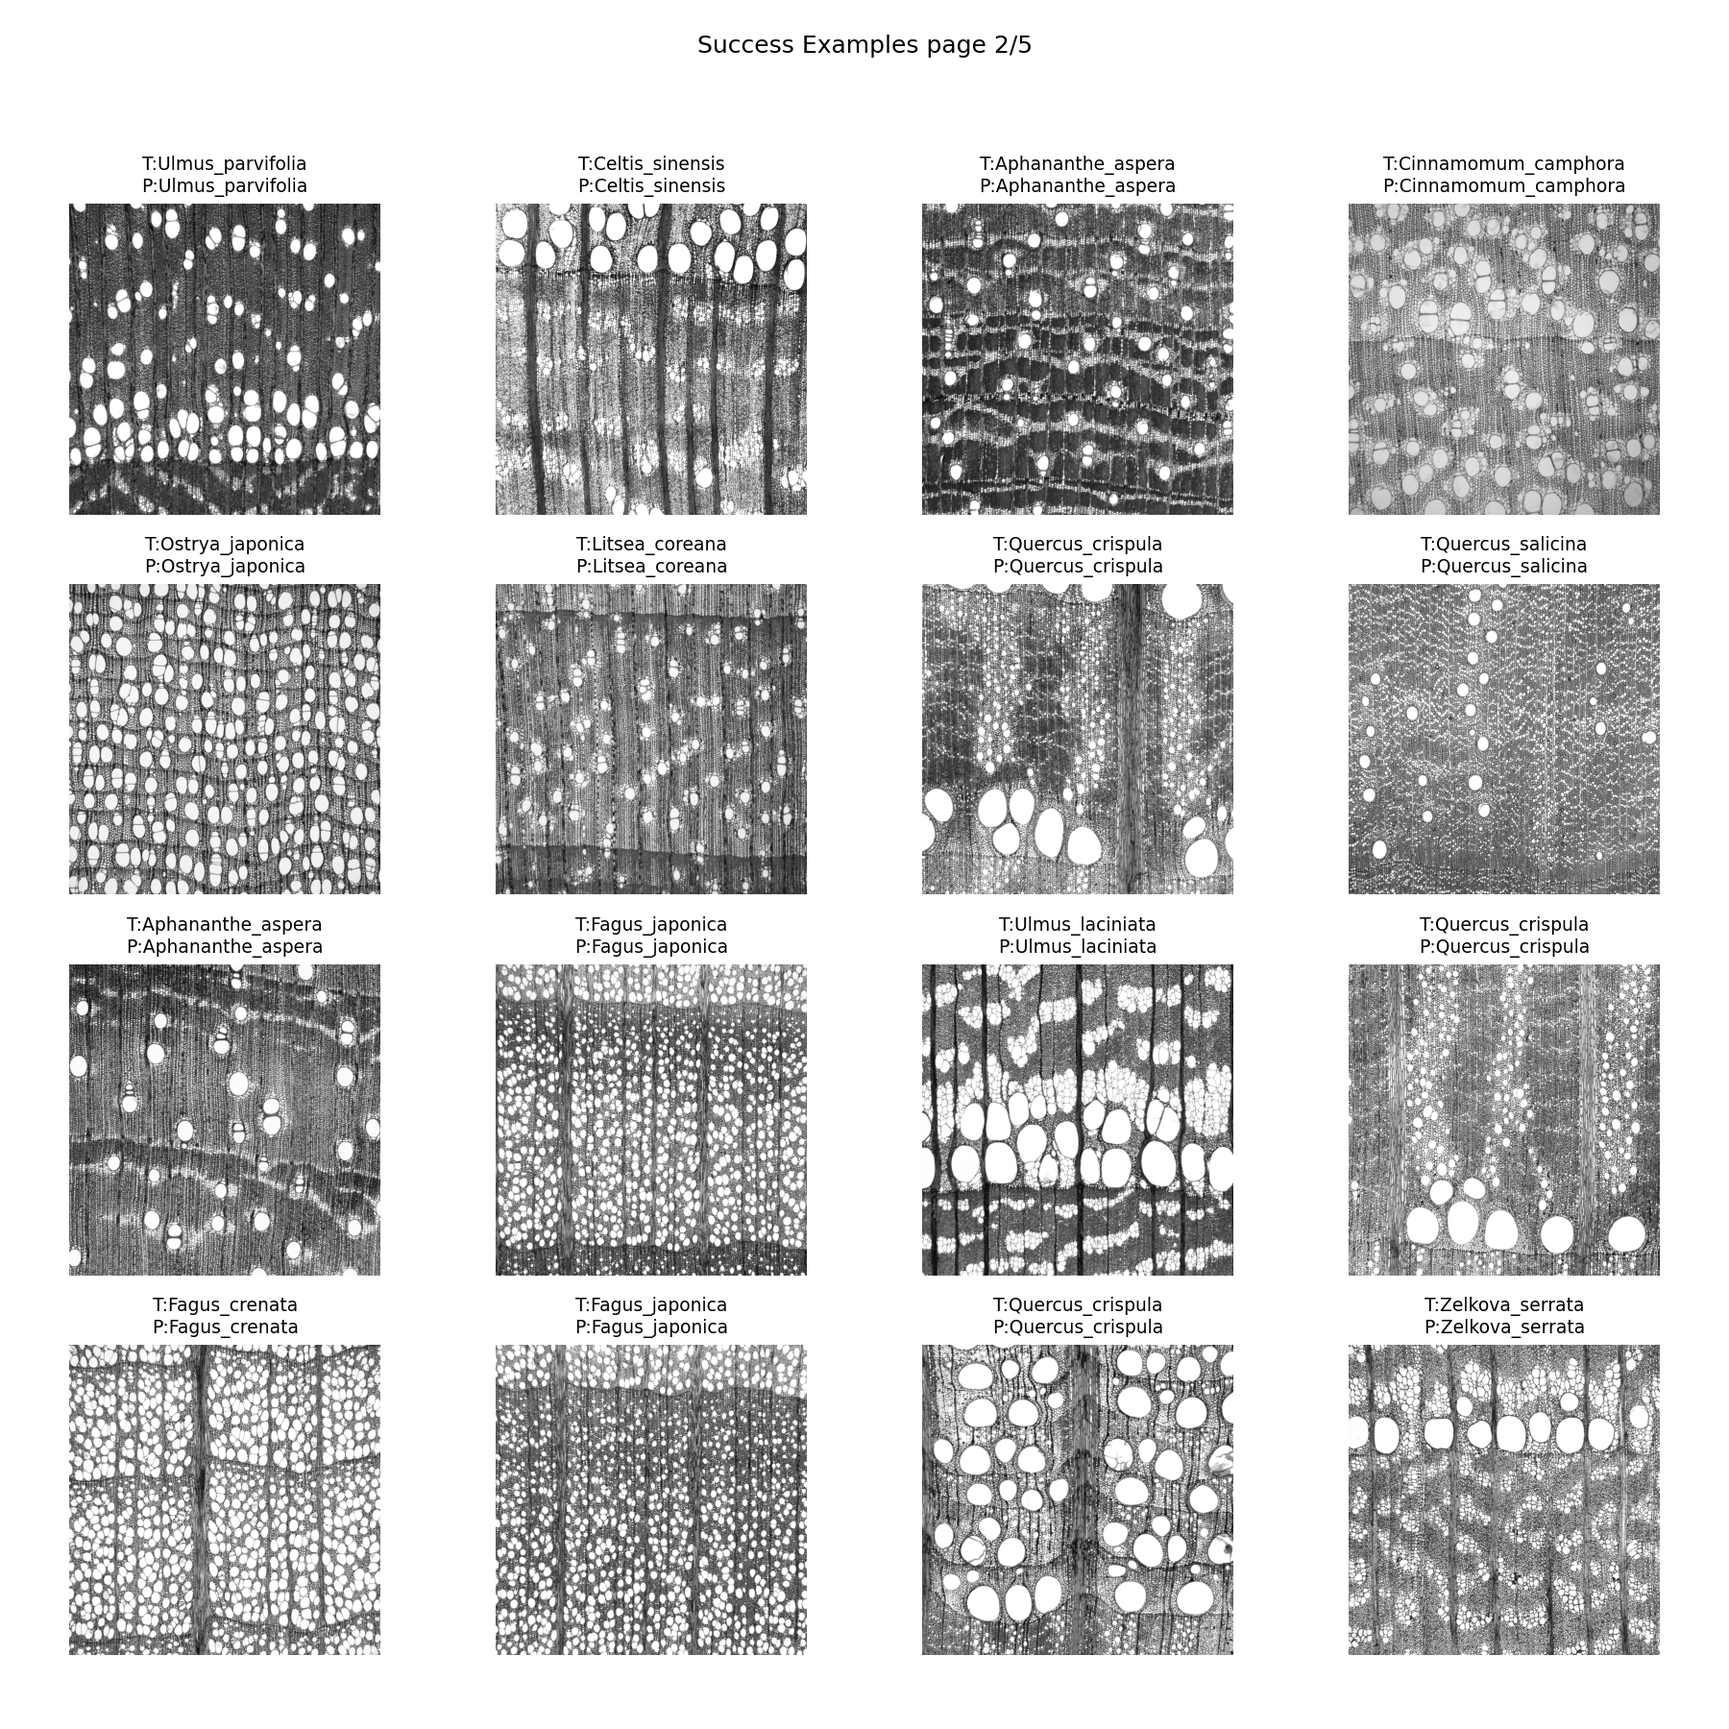
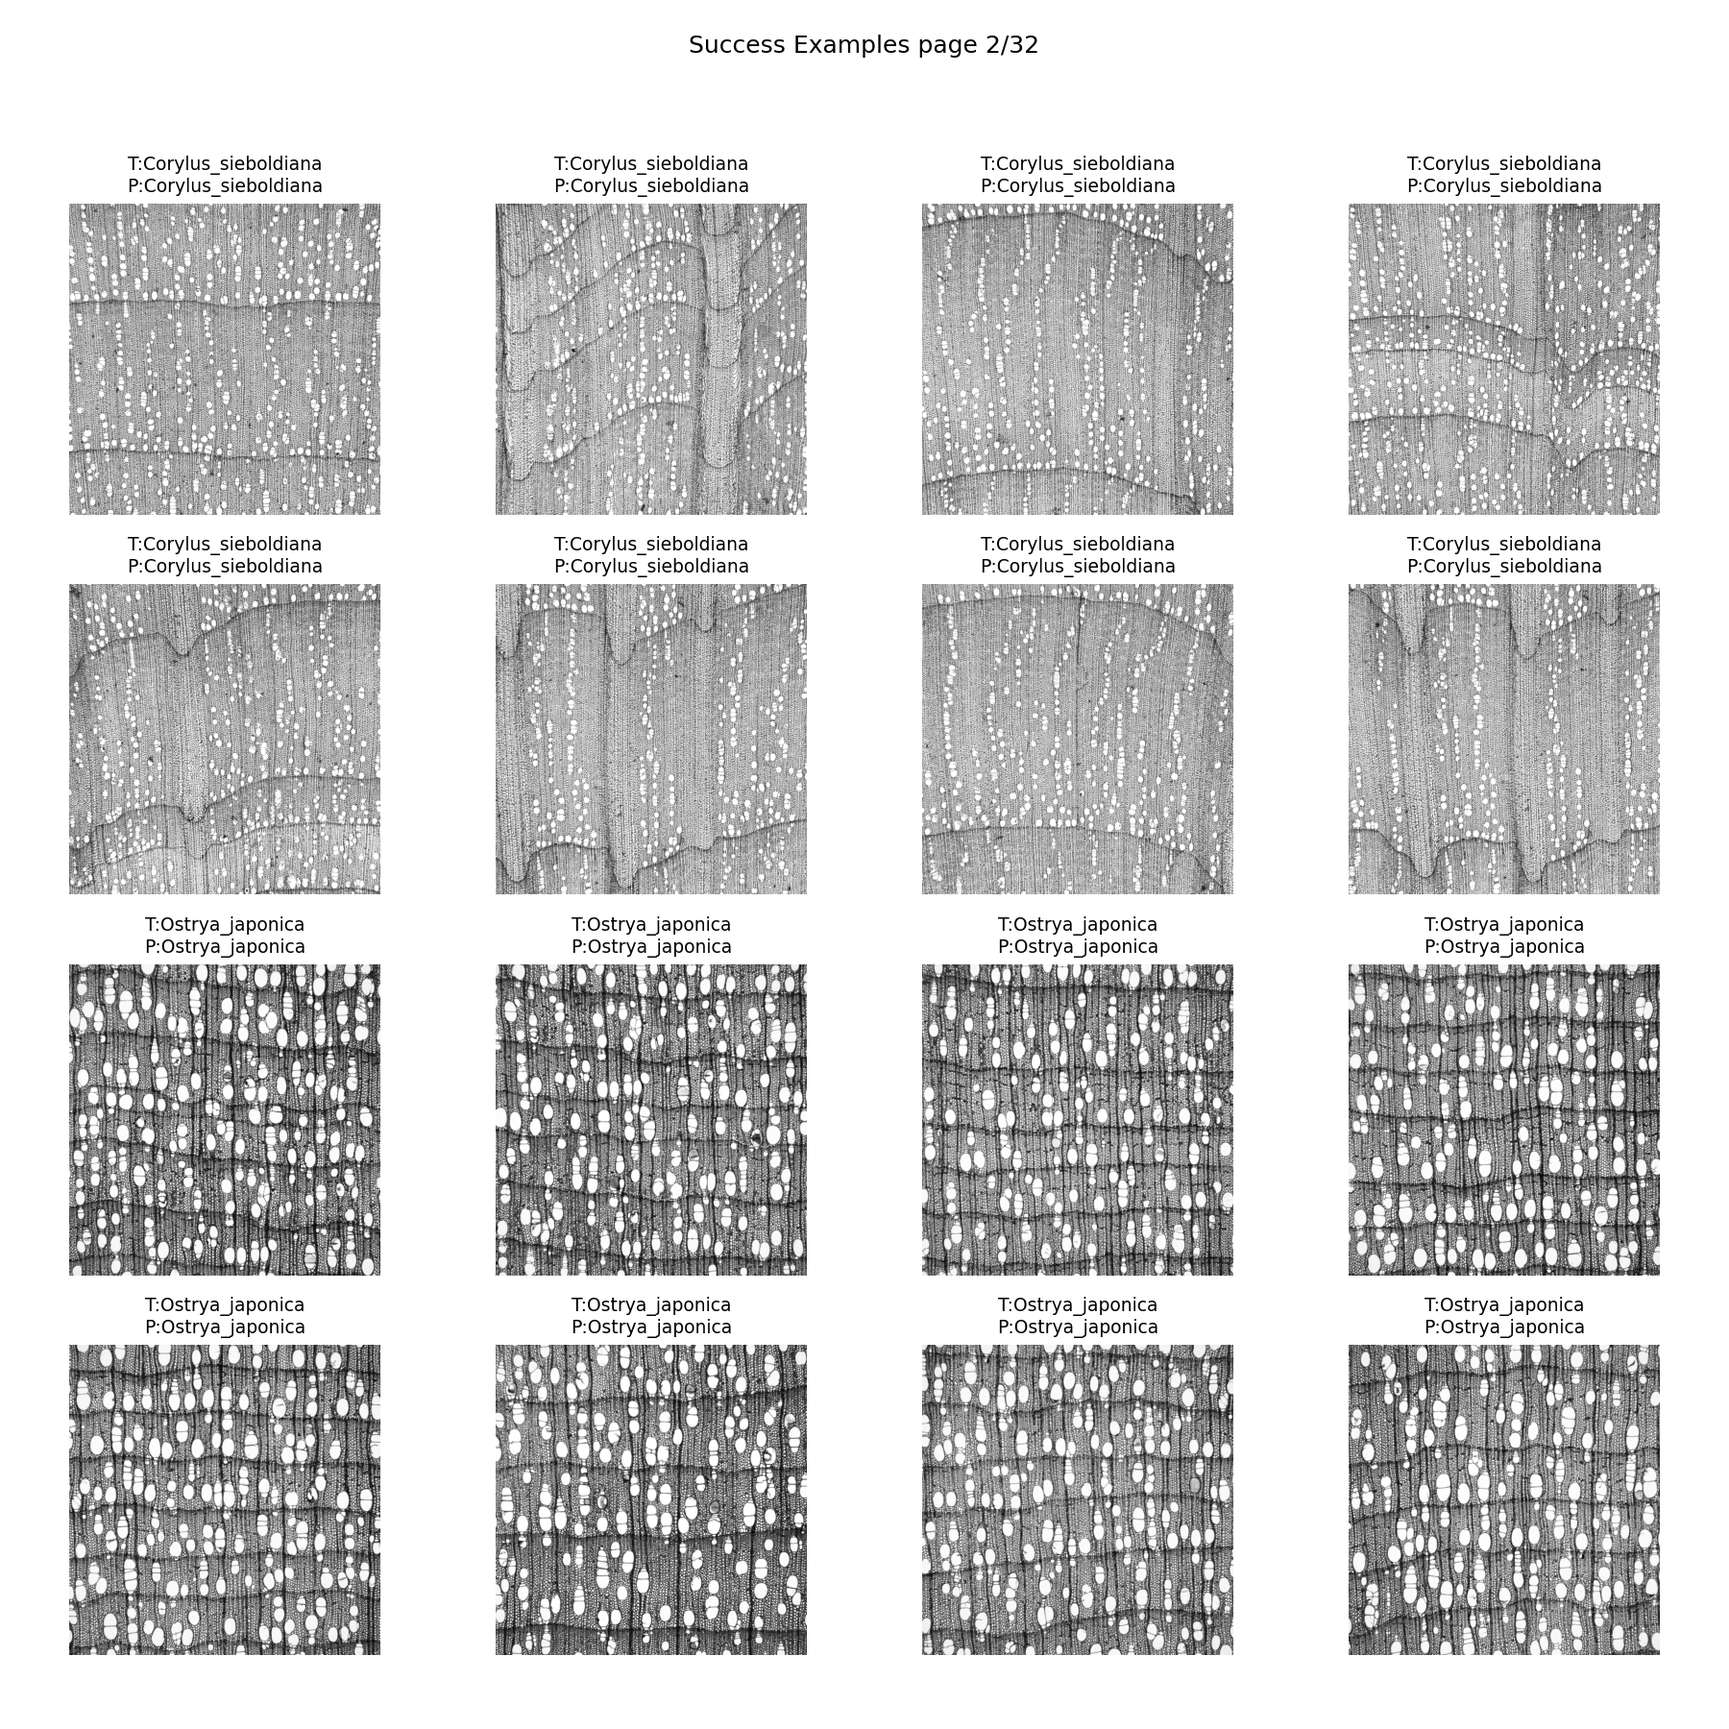
wip

diff --git a/4_eval_confusion_and_examples.py b/4_eval_confusion_and_examples.py
@@ -23,8 +23,7 @@ IMAGES_DIR = Path("results")
 IMAGES_DIR.mkdir(parents=True, exist_ok=True)
 
 MIN_SUPPORT = 5          # 少数クラス除外
-N_EXAMPLES = 80         # 成功/失敗のサンプル数
-PAGE_SIZE  = 16          # 4×4 固定
+PAGE_SIZE  = 16          # 4×4 固定（全件をページ分割表示）
 
 # =========================
 # 軽量TTA
@@ -69,7 +68,8 @@ def main():
     )
     test_loader = DataLoader(
         IndexedDataset(ds_test),
-        batch_size=cfg["BATCH"], shuffle=True,
+        batch_size=cfg["BATCH"],
+        shuffle=False,
         num_workers=cfg["WORKERS"], pin_memory=cfg["PIN_MEM"], drop_last=False
     )
 
@@ -92,7 +92,9 @@ def main():
 
     # 推論
     y_true: List[int] = []; y_pred: List[int] = []; y_top5: List[bool] = []
-    success_idx_set: set[int] = set(); failure_idx_set: set[int] = set()
+    # データ順を保持するため list に蓄積
+    success_indices: List[int] = []
+    failure_indices: List[int] = []
     idx2tp: Dict[int, Tuple[int,int]] = {}
 
     raw_h5 = h5py.File(cfg["H5_PATH"], "r", libver="latest", swmr=True)
@@ -110,8 +112,8 @@ def main():
                 idx = int(ib[i])
                 t, p = int(yb[i]), int(pred[i])
                 idx2tp[idx] = (t, p)
-                if t == p: success_idx_set.add(idx)
-                else:      failure_idx_set.add(idx)
+                if t == p: success_indices.append(idx)
+                else:      failure_indices.append(idx)
 
     y_true_np = np.array(y_true); y_pred_np = np.array(y_pred)
     top5_acc = float(np.mean(y_top5)) if y_top5 else float("nan")
@@ -145,34 +147,42 @@ def main():
     }
     (IMAGES_DIR/"classification_report_filtered.json").write_text(json.dumps(summary,indent=2,ensure_ascii=False),encoding="utf-8")
 
-    # --- グリッド出力 ---
-    rng = np.random.default_rng(cfg["SEED"])
-    def _sample(idx_set:set[int], n:int)->List[int]:
-        idxs=list(idx_set); 
-        return idxs if len(idxs)<=n else list(rng.choice(idxs,n,replace=False))
-    def _chunks(lst:List[int],size:int): return [lst[i:i+size] for i in range(0,len(lst),size)]
+    # --- グリッド出力（全件） ---
+    def _chunks(lst:List[int], size:int) -> List[List[int]]:
+        return [lst[i:i+size] for i in range(0, len(lst), size)]
+
     def _draw(indices:List[int], title, prefix, fail):
-        pages=_chunks(indices,PAGE_SIZE)
-        for i,page in enumerate(pages):
-            fig,axes=plt.subplots(4,4,figsize=(12,12)); axes=np.asarray(axes)
+        pages = _chunks(indices, PAGE_SIZE)
+        if not pages:  # 該当なし
+            return
+        for i, page in enumerate(pages):
+            fig, axes = plt.subplots(4, 4, figsize=(12, 12))
+            axes = np.asarray(axes)
             fig.suptitle(f"{title} page {i+1}/{len(pages)}")
             for k in range(16):
-                r,c=divmod(k,4); ax=axes[r,c]; ax.axis("off")
-                if k>=len(page): continue
-                idx=page[k]; rec=ds_test.df.iloc[idx]
-                ds_path=rec["dataset_path"]; idx_in=int(rec["idx_in_ds"])
-                img=raw_h5[ds_path][idx_in]; ax.imshow(img,cmap="gray",vmin=0,vmax=255)
-                t,p=idx2tp[idx]; tn=id2spe.get(t,str(t)); pn=id2spe.get(p,str(p))
+                r, c = divmod(k, 4)
+                ax = axes[r, c]
+                ax.axis("off")
+                if k >= len(page): 
+                    continue
+                idx = page[k]
+                rec = ds_test.df.iloc[idx]
+                ds_path = rec["dataset_path"]; idx_in = int(rec["idx_in_ds"])
+                img = raw_h5[ds_path][idx_in]
+                ax.imshow(img, cmap="gray", vmin=0, vmax=255)
+                t, p = idx2tp[idx]
+                tn = id2spe.get(t, str(t)); pn = id2spe.get(p, str(p))
                 ax.set_title(f"T:{tn}\nP:{pn}", fontsize=9, color=("red" if fail else "black"))
-            plt.tight_layout(rect=[0,0.03,1,0.95])
-            fig.savefig(IMAGES_DIR/f"{prefix}_{i}.png",dpi=150); plt.close(fig)
+            plt.tight_layout(rect=[0, 0.03, 1, 0.95])
+            fig.savefig(IMAGES_DIR / f"{prefix}_{i}.png", dpi=150)
+            plt.close(fig)
 
-    succ=_sample(success_idx_set,N_EXAMPLES); fail=_sample(failure_idx_set,N_EXAMPLES)
-    _draw(succ,"Success Examples","success_grid",fail=False)
-    _draw(fail,"Failure Examples","failure_grid",fail=True)
+    # 全件（順序維持）のままページ分割
+    _draw(success_indices, "Success Examples", "success_grid", fail=False)
+    _draw(failure_indices, "Failure Examples", "failure_grid", fail=True)
 
     raw_h5.close()
     print("Done. See results/")
 
-if __name__=="__main__":
+if __name__ == "__main__":
     main()

diff --git a/3_visualize_runs.py b/3_visualize_runs.py
@@ -59,6 +59,7 @@ def _fmt(v):
 def main():
     ap = argparse.ArgumentParser()
     ap.add_argument("--with-ce", action="store_true", help="Accuracyパネルに CE(no margin) を右軸で重ねる")
+    ap.add_argument("--with-lr", action="store_true", help="LRパネルを表示する（デフォルト非表示）")
     args = ap.parse_args()
 
     df = _load_history()
@@ -78,21 +79,25 @@ def main():
     if best_epoch is None and "val_acc" in df.columns and not df["val_acc"].dropna().empty:
         best_epoch = int(df.loc[df["val_acc"].idxmax(), "epoch"])
 
-    # ←—— ここが肝：凡例に出す数値を best_epoch の値に差し替え（凡例の項目名は変更しない）
+    # 凡例に出す数値を best_epoch の値に差し替え（凡例の項目名は変更しない）
     show = {
-        "train_acc":  _get_at_epoch(df, "train_acc",  best_epoch),
-        "val_acc":    _get_at_epoch(df, "val_acc",    best_epoch),
-        "train_top5": _get_at_epoch(df, "train_top5", best_epoch),
-        "val_top5":   _get_at_epoch(df, "val_top5",   best_epoch),
+        "train_acc":   _get_at_epoch(df, "train_acc",   best_epoch),
+        "val_acc":     _get_at_epoch(df, "val_acc",     best_epoch),
+        "train_top5":  _get_at_epoch(df, "train_top5",  best_epoch),
+        "val_top5":    _get_at_epoch(df, "val_top5",    best_epoch),
         "lr_backbone": _get_at_epoch(df, "lr_backbone", best_epoch),
         "lr_head":     _get_at_epoch(df, "lr_head",     best_epoch),
-        "val_ce":     _get_at_epoch(df, "val_ce",     best_epoch) if "val_ce" in df.columns else None,
+        "val_ce":      _get_at_epoch(df, "val_ce",      best_epoch) if "val_ce" in df.columns else None,
     }
 
-    # ---- Figure: 2x2 だが右下は削除（3枚表示） ----
-    fig, axes = plt.subplots(2, 2, figsize=(12, 8), constrained_layout=True)
-    ax_acc, ax_top5, ax_lr, ax_empty = axes[0,0], axes[0,1], axes[1,0], axes[1,1]
-    fig.delaxes(ax_empty)
+    # ---- Figure 構成：LRの有無でレイアウト切替 ----
+    if args.with_lr:
+        fig, axes = plt.subplots(2, 2, figsize=(12, 8), constrained_layout=True)
+        ax_acc, ax_top5, ax_lr, ax_empty = axes[0,0], axes[0,1], axes[1,0], axes[1,1]
+        fig.delaxes(ax_empty)
+    else:
+        fig, (ax_acc, ax_top5) = plt.subplots(1, 2, figsize=(12, 4.5), constrained_layout=True)
+        ax_lr = None  # 使わない
 
     # (1) Top-1 Accuracy
     ax = ax_acc
@@ -139,18 +144,26 @@ def main():
     ax.grid(True, alpha=0.3)
     if any_curve: ax.legend(loc="lower right")
 
-    # (3) Learning Rates
-    ax = ax_lr
-    if "lr_backbone" in df.columns:
-        ax.plot(df["epoch"], df["lr_backbone"], label=f"lr_backbone")
-    if "lr_head" in df.columns:
-        ax.plot(df["epoch"], df["lr_head"],     label=f"lr_head")
-    ax.set_title("Learning Rates")
-    ax.set_xlabel("Epoch"); ax.set_ylabel("LR")
-    ax.grid(True, alpha=0.3)
-    ax.legend()
+    # (3) Learning Rates（--with-lr のときだけ描画）
+    if args.with_lr:
+        ax = ax_lr
+        if "lr_backbone" in df.columns:
+            ax.plot(df["epoch"], df["lr_backbone"], label=f"lr_backbone")
+        if "lr_head" in df.columns:
+            ax.plot(df["epoch"], df["lr_head"],     label=f"lr_head")
+        ax.set_title("Learning Rates")
+        ax.set_xlabel("Epoch"); ax.set_ylabel("LR")
+        ax.grid(True, alpha=0.3)
+        ax.legend()
 
-    out_path = OUT_DIR / ("training_tta_acc_lr.png" if not args.with_ce else "training_tta_acc_lr_ce.png")
+    # 出力ファイル名
+    fname = "training_tta_acc"
+    if args.with_lr:
+        fname += "_lr"
+    if args.with_ce:
+        fname += "_ce"
+    out_path = OUT_DIR / f"{fname}.png"
+
     fig.savefig(out_path, dpi=150)
     plt.close(fig)
     print(f"Saved: {out_path.resolve()}")

diff --git a/README.md b/README.md
@@ -1,5 +1,3 @@
-<img src="results/WOODLOGO.png" alt="logo" width="120" align="right">
-
 # Wood Micrograph Classification
 
 <p>
@@ -14,7 +12,9 @@
 
 本リポジトリは、**広葉樹の光学顕微鏡画像**を対象とした **種分類（species classification）** の実装です。
 
-### 特徴
+<img src="results/readme_cells.png">
+
+## 特徴
 
 * **バックボーン**: `timm` ライブラリ（ConvNeXt / ViT / Swin / MaxViT など）。本実装は `MaxViT (maxvit_tiny_rw_224)` を採用
 * **ヘッド**: SubCenter-ArcFace（サブセンタ対応, `subcenters=4`）による角距離学習
@@ -29,7 +29,6 @@
   * EMA（Exponential Moving Average）
   * Balanced Sampler によるクラス不均衡補正
 
-> 備考: 汎化性能は依然として課題であり、個体依存の偏りやパターン過信を抑えるために、サンプリングと前処理/Aug の設計を改良する必要があります。
 
 ### 実行スクリプト
 
@@ -40,13 +39,13 @@
 
 ---
 
-### 背景と課題
+## 背景と課題
 
-このタスクは **同一 family／同一 genus 内の種を見分ける**必要があり、局所構造や組織配列がほぼ共通です。体感としては **「双子の識別より難しい」**レベルの微差判定で、さらに **個体差（試料差・切片条件）や撮影条件差**が上乗せされます。結果として、従来の CE ベース分類器（例: ResNet）では太刀打ちできませんでした。
+このタスクは **同一 family／同一 genus 内の種を見分ける**必要があり、局所構造や組織配列がほぼ共通です。体感としては **「双子の識別より難しい」** レベルの微差判定で、さらに **個体差（試料差・切片条件** が上乗せされます。結果として、従来の分類器（例: ResNet）では太刀打ちできませんでした。
 
-そこで、顔認証に近い難しさだと捉え、**角距離ベースの SubCenter-ArcFace（margin ウォームアップ）**を採用。バックボーンは **MaxViT (maxvit_tiny_rw_224)** に統一し、必要に応じて **Center Loss** を併用、学習の安定化に **EMA** と **CosineAnnealingWarmRestarts** を使っています。データは **個体IDで層化分割**し、**レア種は train 専属**。学習時は **Flip/Rotate(90°)、Scale Jitter(±15%)、Brightness/Contrast(±10%, ±0.05)、Gamma(±10%)** を弱めに適用し、検証/テストでは **Resize + Normalize のみ**（TTA は最終評価時のみ任意）としています。
+そこで、**顔認証**に近い難しさだと捉え、角距離ベースの SubCenter-ArcFace（margin ウォームアップ）を採用。バックボーンは **MaxViT (maxvit_tiny_rw_224)** を採用し、必要に応じて Center Loss を併用、学習の安定化に EMA と CosineAnnealingWarmRestarts を使っています。データは 個体IDで層化分割し、レア種は train 専属。学習時は Flip/Rotate(90°)、Scale Jitter(±15%)、Brightness/Contrast(±10%, ±0.05)、Gamma(±10%) を弱めに適用し、検証/テストでは Resize + Normalize のみ（TTA は最終評価時）としています。
 
-それでも **汎化性能は依然として主要課題**です。未知個体・未知撮影条件への頑健性や確率の過信（CE の悪化）には改善の余地があり、**サンプリング設計と前処理/Aug の最適化**が精度を大きく左右します。本実装はまず **安定に分類が成立するベースライン**を提供するもので、今後はこの土台の上で **一般化の強化**を進めていきます。
+それでも **汎化性能** は依然として主要課題です。未知個体への頑健性や確率の過信（CE の悪化）には改善の余地があり、**サンプリング設計と前処理/Aug の最適化** が精度を大きく左右すると考えられます。本実装はまず安定に分類が成立するベースラインを提供するもので、今後はこの土台の上で **一般化の強化** を進める必要があります。
 
 
 ## Dataset（Xylarium Digital Database: XDD\_016）
@@ -57,7 +56,7 @@
 * URI: [http://hdl.handle.net/2433/250046](http://hdl.handle.net/2433/250046)
 * コレクション: 木材情報学と教育用材鑑調査室デジタルデータベース
 
-### Overview
+#### Overview
 
 * Families: 7
 * Genera: 33
@@ -101,7 +100,71 @@
 
 ## 結果
 
-（準備中）
+**広葉樹顕微鏡画像を用いた種分類** において、学習の推移・テスト評価・精度をまとめました。
+
+#### 精度の概要
+
+本研究では、学習過程において 検証精度（ `val_acc` ）が最大となったエポック を `best_model` として保存しました。本モデルでは epoch 21 で `val_acc` が 0.724 に達し、この時点の重みを評価対象としています。
+
+* **学習精度**
+  
+  * Top-1 Accuracy: **0.981**
+  * Top-5 Accuracy: **0.992**
+
+<br>
+
+* **検証精度**
+  
+  * Top-1 Accuracy: **0.724**
+  * Top-5 Accuracy: **0.822**
+
+<br>
+
+* **テスト精度（TTAあり）**
+
+  * Top-1 Accuracy: **0.798**
+  * Top-5 Accuracy: **0.930**
+<br>
+
+<p align="center">
+<img src="results/training_tta_acc.png">
+<b>Fig. 1</b> 学習精度の履歴
+</p>
+
+<br>
+
+学習記録の詳細は[こちら](runs/history.json)
+
+#### 分類の成功例と課題
+
+* **成功例**
+
+  * *Aesculus turbinata*, *Aphananthe aspera*, *Castanea crenata*, *Celtis sinensis*, *Corylus sieboldiana* などでは **precision/recall/F1 = 1.0** と完全分類を達成。
+  * また、*Ostrya japonica*（F1≈0.99）、*Cinnamomum camphora*（F1≈0.96）、*Litsea coreana*（F1≈0.95）など、多くの主要樹種で高精度を示しました。
+
+
+* **課題のある種**
+
+  * *Carpinus japonica*（F1≈0.31）、*Quercus acuta*（F1≈0.47）、*Quercus salicina*（F1≈0.47）など、一部の樹種で大きな誤分類が確認されました。
+  * 特に **ブナ科（Quercus 属）間** では同属内での取り違えが頻発し、混同行列でもその傾向が表れています。
+
+
+<p align="center">
+<img src="results/confusion_matrix_norm_filtered.png"><br>
+<b>Fig. 2</b> テストデータセットにおける混同行列
+</p>
+
+さらに、成功例と失敗例の一部を可視化し、モデルの挙動を直感的に把握できるようにしました。
+
+| Success Example                        | Failure Example                        |
+| -------------------------------------- | -------------------------------------- |
+| <img src="results/success_grid_0.png"> | <img src="results/failure_grid_0.png"> |
+
+
+#### まとめ
+本モデルは **Top-1 精度 ≈ 0.80、Top-5 精度 ≈ 0.93** と高い分類性能を実現しました。一方で、同属種の識別には依然として課題が残されており、特に **Quercus 属の細分類**やサンプル数の少ないクラスでの改善が今後の焦点となります。また、汎化性能についても今後の課題です。
+
+分類結果の詳細については[こちら](Classification_Report.md)
 
 ---
 
